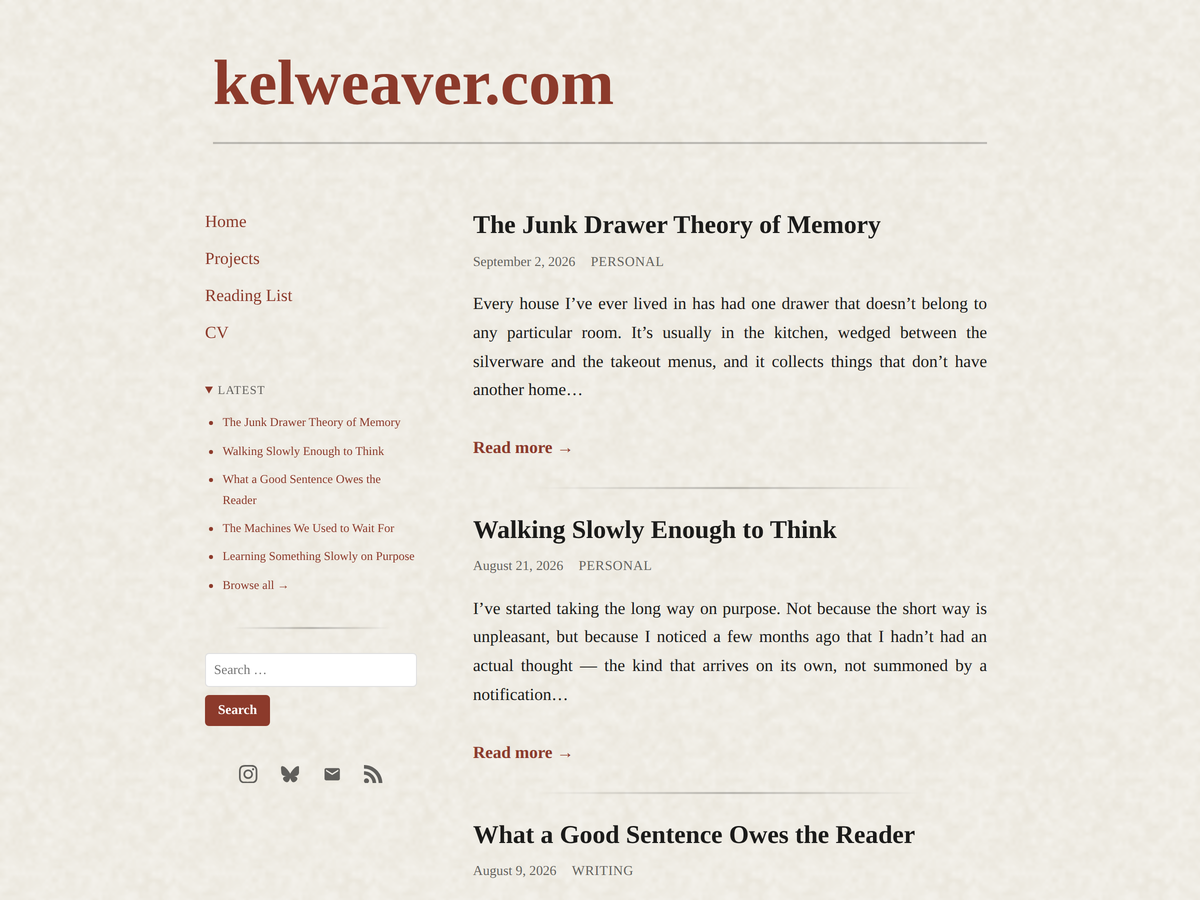
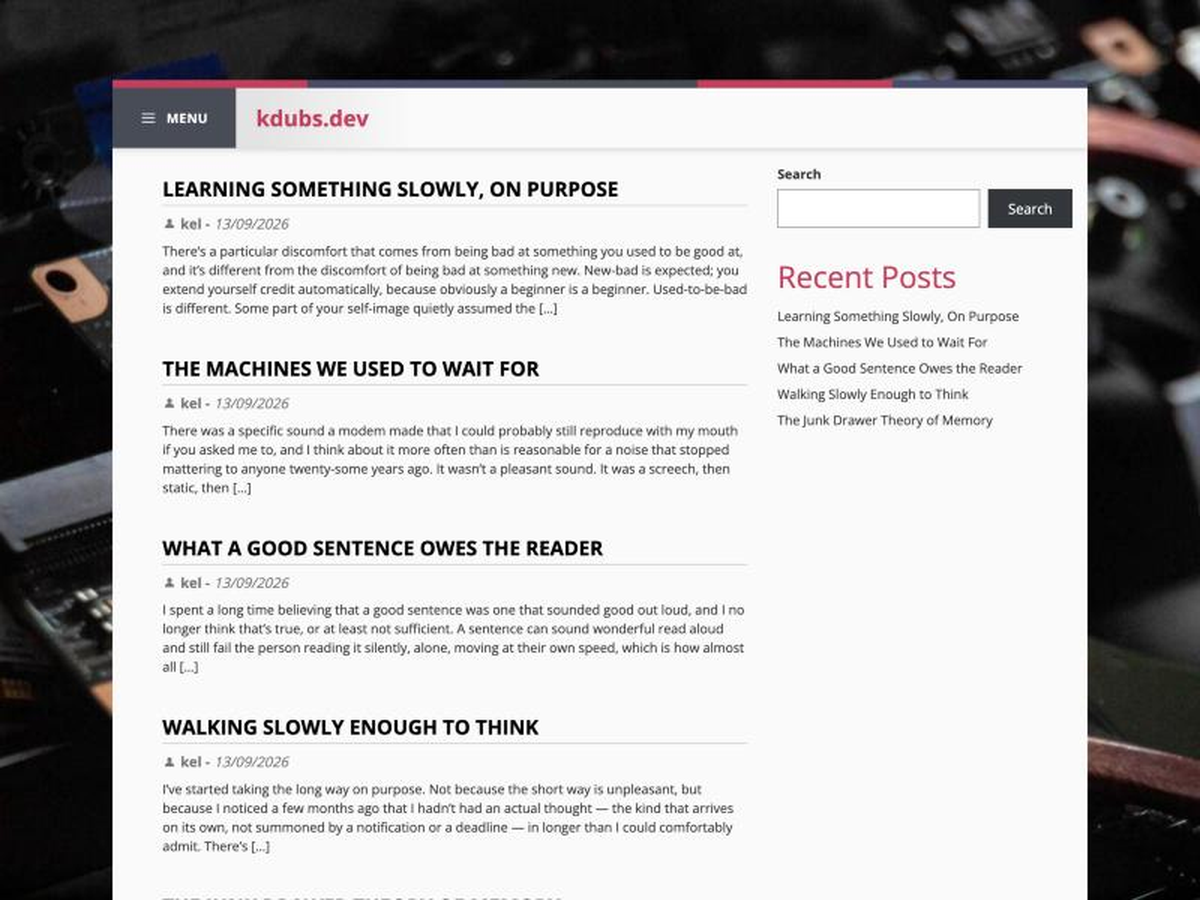
Add single post template and archive thumbnails
- single.php: full post content matching the live site's title /
  featured image / byline / content order, reusing the archive's
  title and meta styling.
- index.php: show a 120x120 featured-image thumbnail to the left of
  the excerpt when a post has one.
- Fix a corrupted screenshot.png (byte mismatch from a bad transfer)
  and bump the theme version to 1.2 so WordPress stops serving a
  stale cached copy of it.

Claude-Session: https://claude.ai/code/session_01Sxedk3XbDF6JWzZkEUPseh

diff --git a/style.css b/style.css
@@ -3,7 +3,7 @@ Theme Name: Kdubs.dev
 Theme URI: https://kdubs.dev
 Author: Kel Weaver
 Description: Custom theme for kdubs.dev -- tech and gaming blog.
-Version: 1.0
+Version: 1.2
 License: GNU General Public License v2 or later
 License URI: http://www.gnu.org/licenses/gpl-2.0.html
 Text Domain: kdubsdev
@@ -362,13 +362,82 @@ h6 {
 	color: #777777;
 }
 
+.entry-body {
+	display: flex;
+	align-items: flex-start;
+	gap: 15px;
+}
+
+.entry-thumbnail-link {
+	display: block;
+	flex: 0 0 auto;
+}
+
+.entry-thumbnail-img {
+	display: block;
+	width: 120px;
+	height: 120px;
+	object-fit: cover;
+}
+
 .entry-excerpt {
+	flex: 1 1 auto;
+	min-width: 0;
 	font-size: 13px;
 	line-height: 19px;
 }
 
 .entry-excerpt p {
 	margin: 0;
+}
+
+.entry-thumbnail {
+	margin: 20px 0;
+}
+
+.entry-thumbnail img {
+	display: block;
+	max-width: 100%;
+	height: auto;
+}
+
+.entry-content {
+	font-size: 13px;
+	line-height: 19px;
+	color: #333333;
+}
+
+.entry-content p {
+	margin: 0 0 10px;
+}
+
+.entry-content a {
+	color: #428bca;
+	text-decoration: none;
+}
+
+.entry-content a:hover {
+	text-decoration: underline;
+}
+
+.entry-content img {
+	display: block;
+	max-width: 100%;
+	height: auto;
+	margin: 10px 0;
+}
+
+.entry-content blockquote {
+	margin: 0 0 10px 20px;
+	padding-left: 15px;
+	border-left: 3px solid #cccccc;
+	color: #555555;
+}
+
+.entry-content ul,
+.entry-content ol {
+	margin: 0 0 10px;
+	padding-left: 24px;
 }
 
 .screen-reader-text {

diff --git a/single.php b/single.php
@@ -1,11 +1,41 @@
 <?php
 /**
- * Single post template -- placeholder.
+ * Single post template. Reuses the index page's title/meta styling
+ * (entry-title, entry-meta, entry-date) and adds the full post
+ * content plus an optional featured image, matching kdubs.dev's
+ * post order: title, then image, then byline, then content.
  */
 get_header();
 ?>
 
-<p><?php esc_html_e( 'Single post template -- coming soon.', 'kdubsdev' ); ?></p>
+<?php while ( have_posts() ) : the_post(); ?>
+
+	<article id="post-<?php the_ID(); ?>" <?php post_class( 'post-entry' ); ?>>
+
+		<h1 class="entry-title"><?php the_title(); ?></h1>
+
+		<?php if ( has_post_thumbnail() ) : ?>
+			<div class="entry-thumbnail">
+				<?php the_post_thumbnail( 'large' ); ?>
+			</div>
+		<?php endif; ?>
+
+		<h4 class="entry-meta">
+			<svg class="entry-meta-icon" viewBox="0 0 24 24" aria-hidden="true" focusable="false">
+				<circle cx="12" cy="8" r="4" fill="currentColor"/>
+				<path d="M4 20c0-4.4 3.6-8 8-8s8 3.6 8 8" fill="currentColor"/>
+			</svg>
+			<?php the_author(); ?> -
+			<span class="entry-date"><?php echo esc_html( get_the_date( 'd/m/Y' ) ); ?></span>
+		</h4>
+
+		<div class="entry-content">
+			<?php the_content(); ?>
+		</div>
+
+	</article>
+
+<?php endwhile; ?>
 
 <?php
 get_footer();

diff --git a/index.php b/index.php
@@ -27,8 +27,18 @@ get_header();
 				<span class="entry-date"><?php echo esc_html( get_the_date( 'd/m/Y' ) ); ?></span>
 			</h4>
 
-			<div class="entry-excerpt">
-				<?php the_excerpt(); ?>
+			<div class="entry-body">
+
+				<?php if ( has_post_thumbnail() ) : ?>
+					<a href="<?php the_permalink(); ?>" class="entry-thumbnail-link">
+						<?php the_post_thumbnail( 'thumbnail', array( 'class' => 'entry-thumbnail-img' ) ); ?>
+					</a>
+				<?php endif; ?>
+
+				<div class="entry-excerpt">
+					<?php the_excerpt(); ?>
+				</div>
+
 			</div>
 
 		</article>
